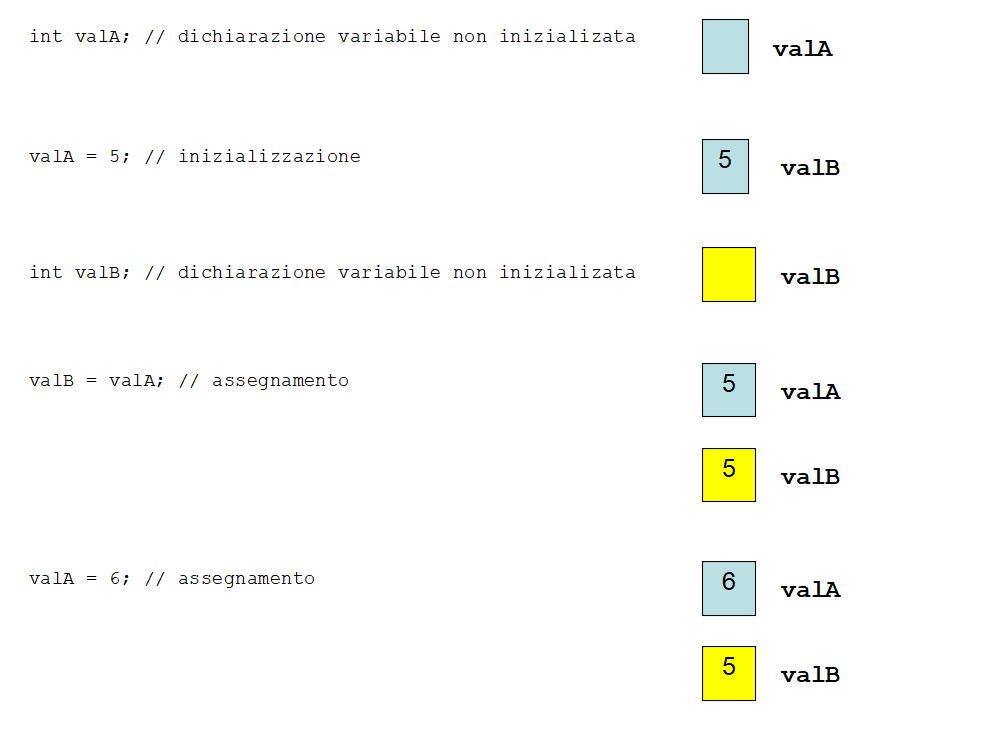
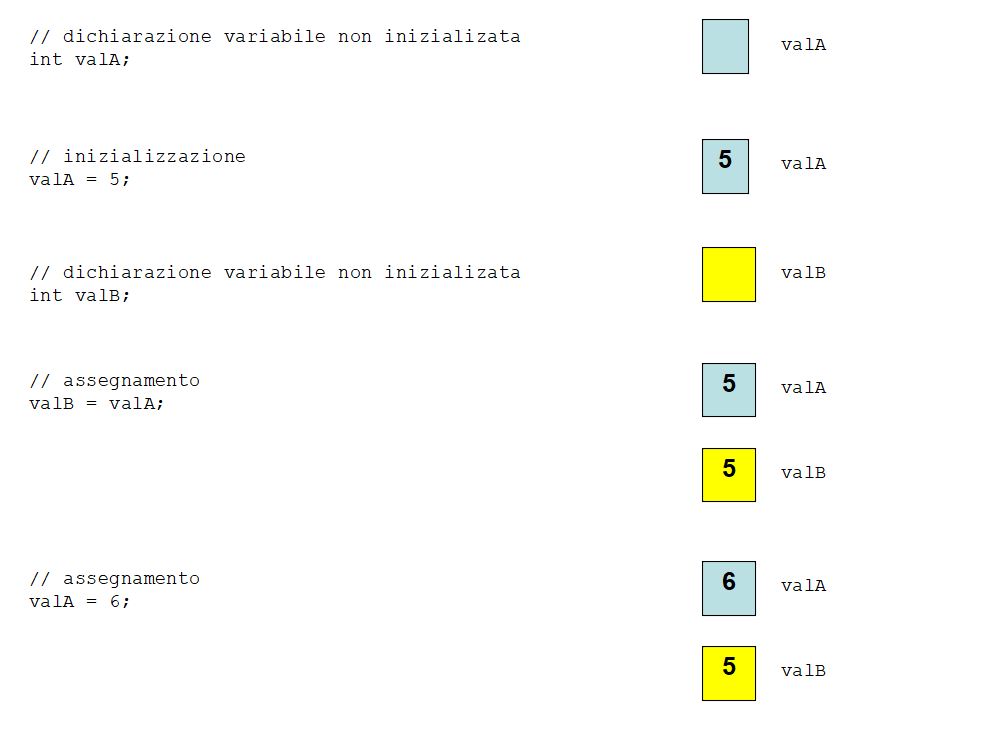
improv

diff --git a/README.md b/README.md
@@ -399,6 +399,9 @@ p2.eta = 46;
 ```
 `p1.eta` vale *46*.
 
+Visualizzando a livello di memoria:
+
+![reference_assigment](./reference_assigment.png)
 
 ### Valori di default dei tipi primitivi come attributi di una classe
 
